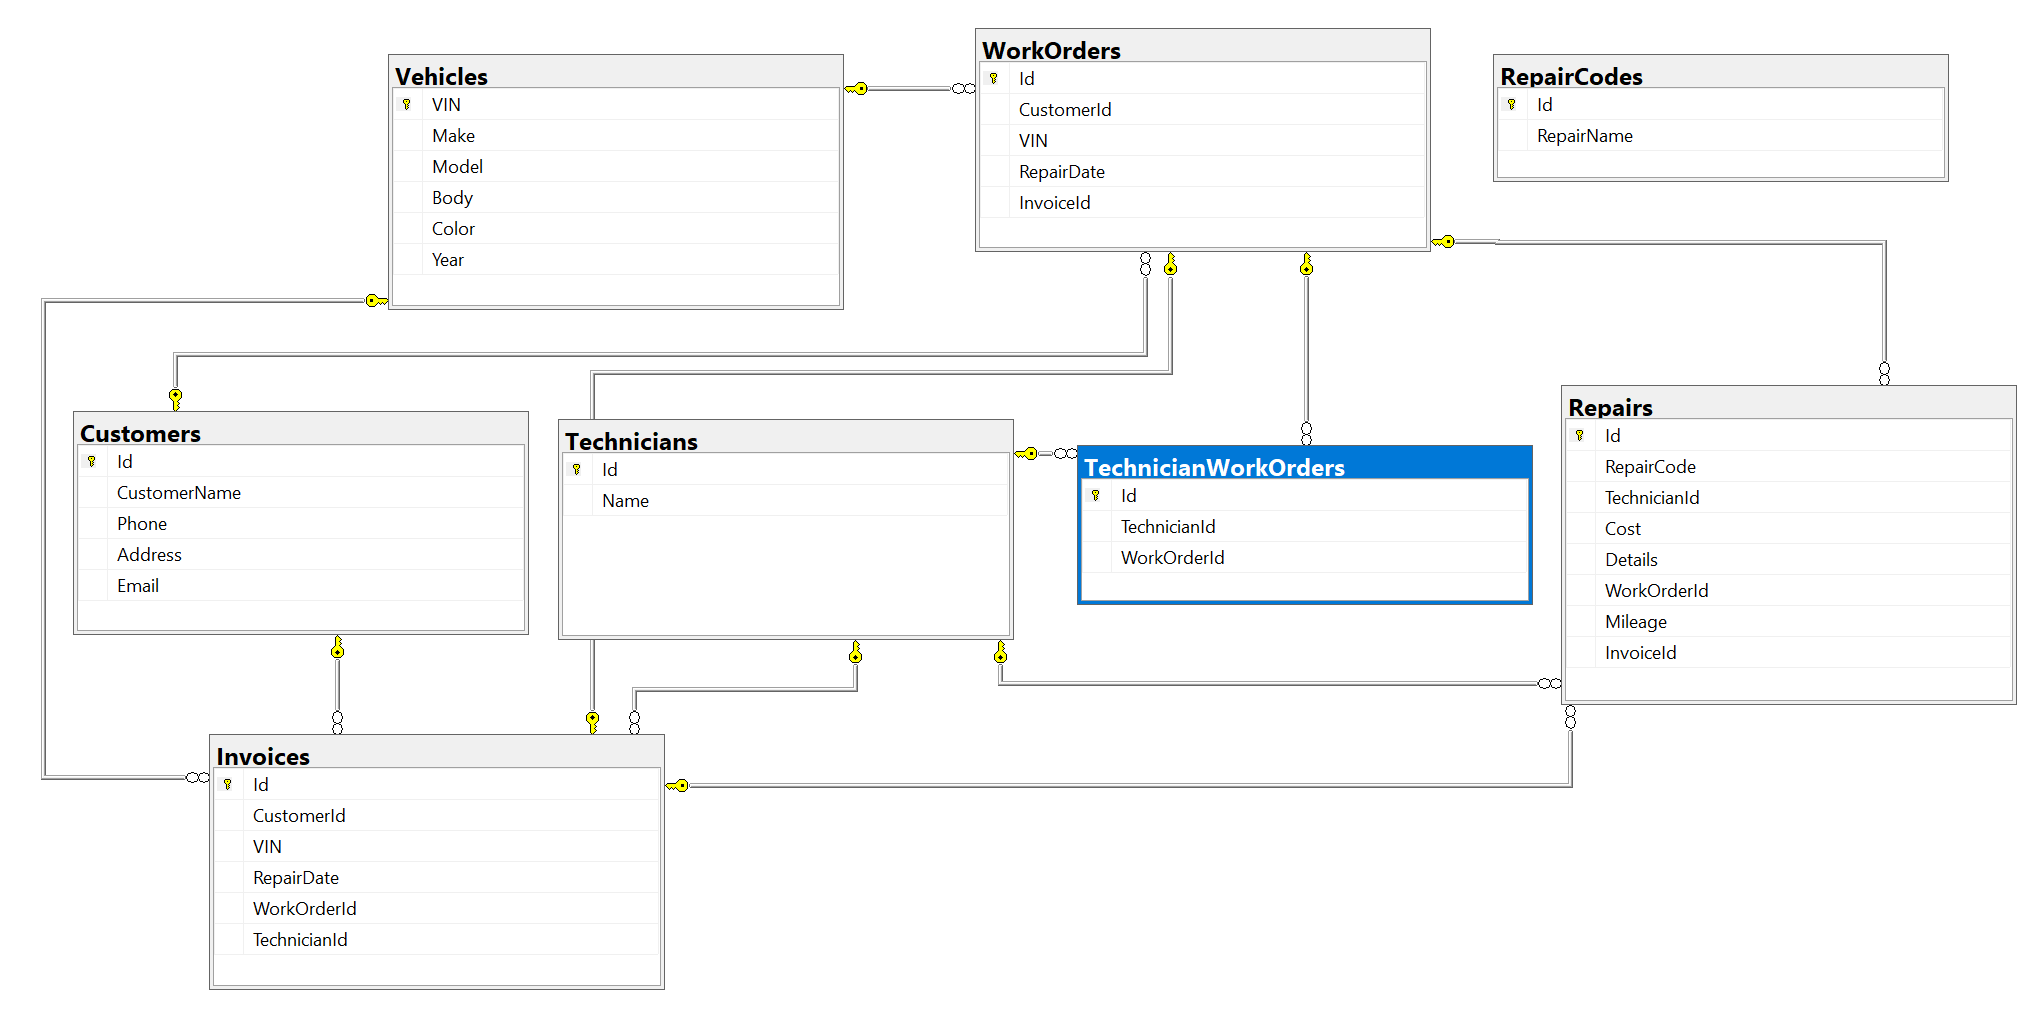
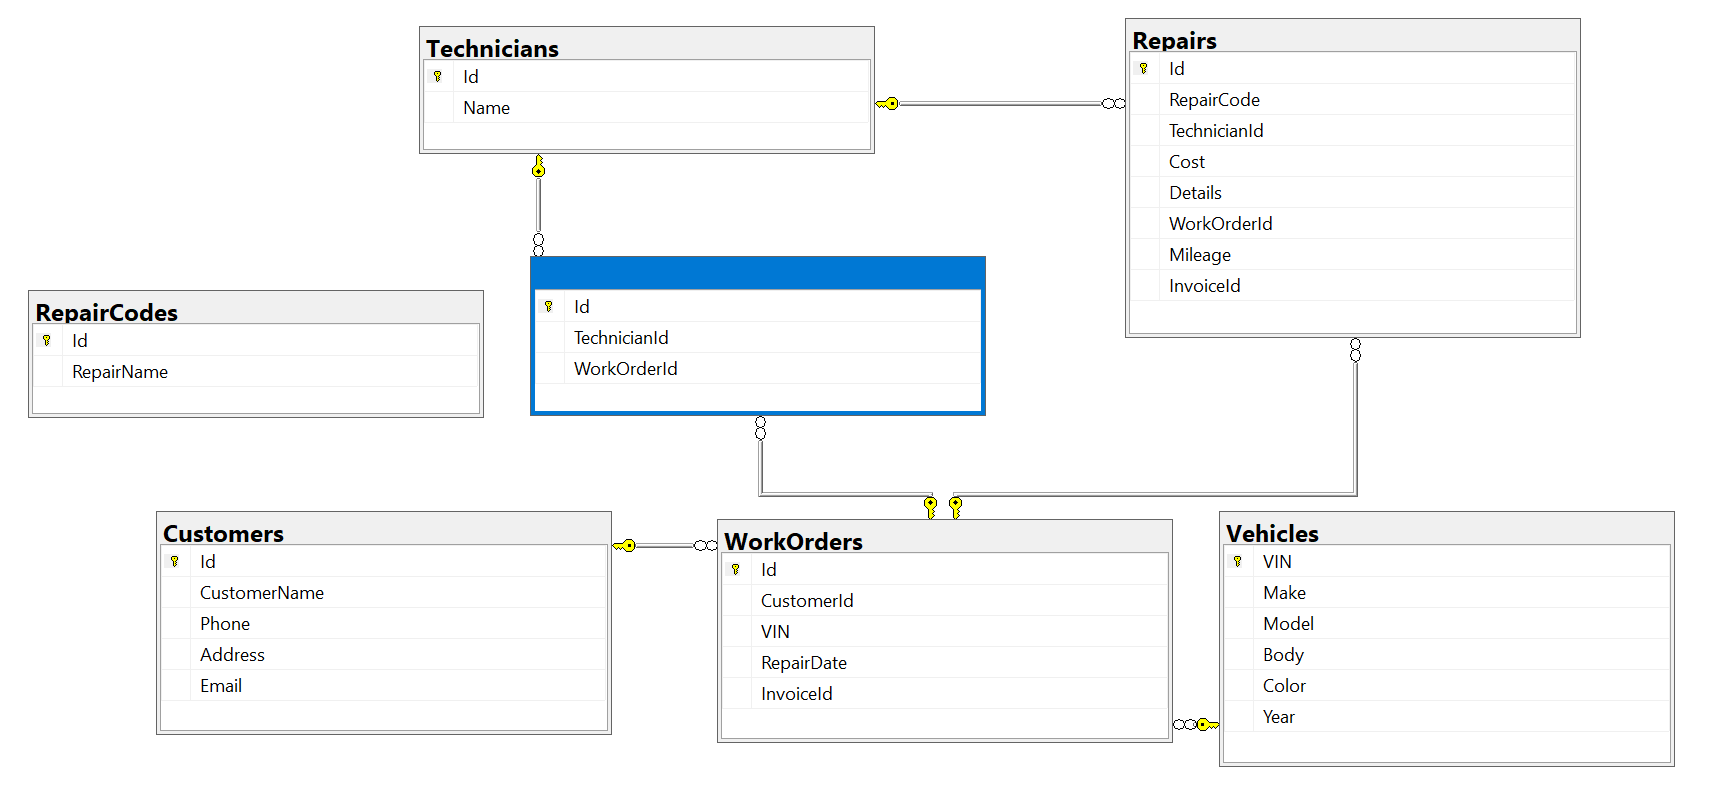
new ERD

diff --git a/ReadMe.md b/ReadMe.md
@@ -26,7 +26,7 @@ Restore the project `dotnet restore` Build the project `dotnet build` Start the 
 Optional: In another terminal, `cd` into the UI directory by `cd SeeSharpCarCare\SeeSharpCarCare.UI` Before starting the UI development server, the required packages are need to be installed via the command `npm install` From here, start the UI development server by `npm run dev` Note: Node.js and NPM is required to run the UI. Go to http://localhost:5173/ to test UI.
 
 ## Entity Relationship Diagram
-![](https://i.imgur.com/YiHqUdV.png)
+![](https://i.imgur.com/hZSv9s3.png)
 
 ## APIs
 ### Customer